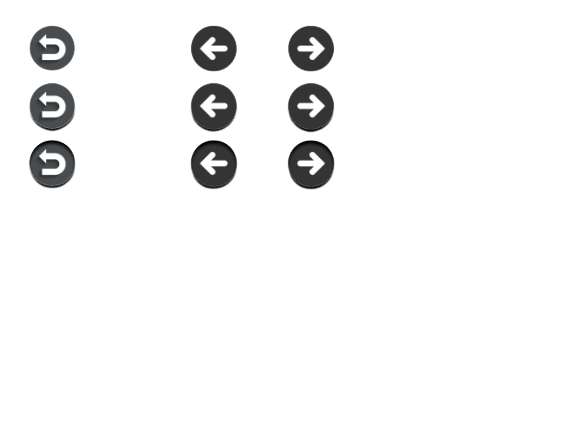
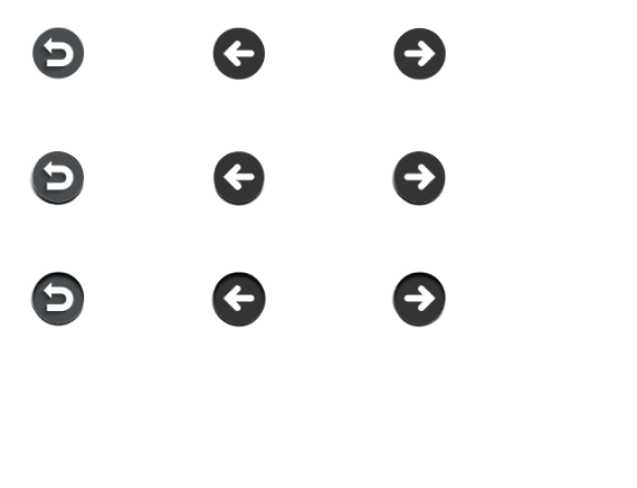
Menu regles fonctionnel

diff --git a/Pages/MenuPrincipal/menuPrincipal.c b/Pages/MenuPrincipal/menuPrincipal.c
@@ -11,7 +11,7 @@ void initDataMenuRegles (Simcity* simcity){
     simcity->pages.menuRegles.tabSpriteMenu[FlECHE_RETOUR].screenY = 7;
 
     simcity->pages.menuRegles.tabSpriteMenu[FLECHE_DROITE].image = &simcity->tabBitmap[BITMAP_FLECHES_MENU_REGLES];
-    simcity->pages.menuRegles.tabSpriteMenu[FLECHE_DROITE].spriteX = 318;
+    simcity->pages.menuRegles.tabSpriteMenu[FLECHE_DROITE].spriteX = 391;
     simcity->pages.menuRegles.tabSpriteMenu[FLECHE_DROITE].spriteY = 25;
     simcity->pages.menuRegles.tabSpriteMenu[FLECHE_DROITE].spriteHauteur = 60;
     simcity->pages.menuRegles.tabSpriteMenu[FLECHE_DROITE].spriteLargeur = 60;
@@ -28,15 +28,15 @@ void initDataMenuRegles (Simcity* simcity){
 
     simcity->pages.menuRegles.tabSpriteMenu[FLECHE_RETOUR_HOVER].image = &simcity->tabBitmap[BITMAP_FLECHES_MENU_REGLES];
     simcity->pages.menuRegles.tabSpriteMenu[FLECHE_RETOUR_HOVER].spriteX = 25;
-    simcity->pages.menuRegles.tabSpriteMenu[FLECHE_RETOUR_HOVER].spriteY = 90;
+    simcity->pages.menuRegles.tabSpriteMenu[FLECHE_RETOUR_HOVER].spriteY = 150;
     simcity->pages.menuRegles.tabSpriteMenu[FLECHE_RETOUR_HOVER].spriteHauteur = 60;
     simcity->pages.menuRegles.tabSpriteMenu[FLECHE_RETOUR_HOVER].spriteLargeur = 60;
     simcity->pages.menuRegles.tabSpriteMenu[FLECHE_RETOUR_HOVER].screenX = 0;
     simcity->pages.menuRegles.tabSpriteMenu[FLECHE_RETOUR_HOVER].screenY = 7;
 
     simcity->pages.menuRegles.tabSpriteMenu[FLECHE_DROITE_HOVER].image = &simcity->tabBitmap[BITMAP_FLECHES_MENU_REGLES];
-    simcity->pages.menuRegles.tabSpriteMenu[FLECHE_DROITE_HOVER].spriteX = 318;
-    simcity->pages.menuRegles.tabSpriteMenu[FLECHE_DROITE_HOVER].spriteY = 90;
+    simcity->pages.menuRegles.tabSpriteMenu[FLECHE_DROITE_HOVER].spriteX = 391;
+    simcity->pages.menuRegles.tabSpriteMenu[FLECHE_DROITE_HOVER].spriteY = 150;
     simcity->pages.menuRegles.tabSpriteMenu[FLECHE_DROITE_HOVER].spriteHauteur = 60;
     simcity->pages.menuRegles.tabSpriteMenu[FLECHE_DROITE_HOVER].spriteLargeur = 60;
     simcity->pages.menuRegles.tabSpriteMenu[FLECHE_DROITE_HOVER].screenX = 865;
@@ -44,7 +44,7 @@ void initDataMenuRegles (Simcity* simcity){
 
     simcity->pages.menuRegles.tabSpriteMenu[FLECHE_GAUCHE_HOVER].image = &simcity->tabBitmap[BITMAP_FLECHES_MENU_REGLES];
     simcity->pages.menuRegles.tabSpriteMenu[FLECHE_GAUCHE_HOVER].spriteX = 208;
-    simcity->pages.menuRegles.tabSpriteMenu[FLECHE_GAUCHE_HOVER].spriteY = 90;
+    simcity->pages.menuRegles.tabSpriteMenu[FLECHE_GAUCHE_HOVER].spriteY = 150;
     simcity->pages.menuRegles.tabSpriteMenu[FLECHE_GAUCHE_HOVER].spriteHauteur = 60;
     simcity->pages.menuRegles.tabSpriteMenu[FLECHE_GAUCHE_HOVER].spriteLargeur = 60;
     simcity->pages.menuRegles.tabSpriteMenu[FLECHE_GAUCHE_HOVER].screenX = 720;
@@ -52,15 +52,15 @@ void initDataMenuRegles (Simcity* simcity){
 
     simcity->pages.menuRegles.tabSpriteMenu[FLECHE_RETOUR_CLIQUE].image = &simcity->tabBitmap[BITMAP_FLECHES_MENU_REGLES];
     simcity->pages.menuRegles.tabSpriteMenu[FLECHE_RETOUR_CLIQUE].spriteX = 25;
-    simcity->pages.menuRegles.tabSpriteMenu[FLECHE_RETOUR_CLIQUE].spriteY = 155;
+    simcity->pages.menuRegles.tabSpriteMenu[FLECHE_RETOUR_CLIQUE].spriteY = 273;
     simcity->pages.menuRegles.tabSpriteMenu[FLECHE_RETOUR_CLIQUE].spriteHauteur = 60;
     simcity->pages.menuRegles.tabSpriteMenu[FLECHE_RETOUR_CLIQUE].spriteLargeur = 60;
     simcity->pages.menuRegles.tabSpriteMenu[FLECHE_RETOUR_CLIQUE].screenX = 0;
     simcity->pages.menuRegles.tabSpriteMenu[FLECHE_RETOUR_CLIQUE].screenY = 7;
 
     simcity->pages.menuRegles.tabSpriteMenu[FLECHE_DROITE_CLIQUE].image = &simcity->tabBitmap[BITMAP_FLECHES_MENU_REGLES];
-    simcity->pages.menuRegles.tabSpriteMenu[FLECHE_DROITE_CLIQUE].spriteX = 318;
-    simcity->pages.menuRegles.tabSpriteMenu[FLECHE_DROITE_CLIQUE].spriteY = 155;
+    simcity->pages.menuRegles.tabSpriteMenu[FLECHE_DROITE_CLIQUE].spriteX = 391;
+    simcity->pages.menuRegles.tabSpriteMenu[FLECHE_DROITE_CLIQUE].spriteY = 273;
     simcity->pages.menuRegles.tabSpriteMenu[FLECHE_DROITE_CLIQUE].spriteHauteur = 60;
     simcity->pages.menuRegles.tabSpriteMenu[FLECHE_DROITE_CLIQUE].spriteLargeur = 60;
     simcity->pages.menuRegles.tabSpriteMenu[FLECHE_DROITE_CLIQUE].screenX = 865;
@@ -68,7 +68,7 @@ void initDataMenuRegles (Simcity* simcity){
 
     simcity->pages.menuRegles.tabSpriteMenu[FLECHE_GAUCHE_CLIQUE].image = &simcity->tabBitmap[BITMAP_FLECHES_MENU_REGLES];
     simcity->pages.menuRegles.tabSpriteMenu[FLECHE_GAUCHE_CLIQUE].spriteX = 208;
-    simcity->pages.menuRegles.tabSpriteMenu[FLECHE_GAUCHE_CLIQUE].spriteY = 155;
+    simcity->pages.menuRegles.tabSpriteMenu[FLECHE_GAUCHE_CLIQUE].spriteY = 273;
     simcity->pages.menuRegles.tabSpriteMenu[FLECHE_GAUCHE_CLIQUE].spriteHauteur = 60;
     simcity->pages.menuRegles.tabSpriteMenu[FLECHE_GAUCHE_CLIQUE].spriteLargeur = 60;
     simcity->pages.menuRegles.tabSpriteMenu[FLECHE_GAUCHE_CLIQUE].screenX = 720;
@@ -326,6 +326,7 @@ void detectionCliqueBoutonAide (Simcity* simcity){// A l'image du hover, un effe
     if(simcity->allegro.event.mouse.button == 1 && (float)simcity->allegro.event.mouse.x >= simcity->pages.menuPrincipal.tabSpriteMenu[AIDE].screenX && (float)simcity->allegro.event.mouse.x <= simcity->pages.menuPrincipal.tabSpriteMenu[AIDE].screenX + simcity->pages.menuPrincipal.tabSpriteMenu[AIDE].spriteLargeur && (float)simcity->allegro.event.mouse.y >= simcity->pages.menuPrincipal.tabSpriteMenu[AIDE].screenY && (float)simcity->allegro.event.mouse.y <= simcity->pages.menuPrincipal.tabSpriteMenu[AIDE].screenY + simcity->pages.menuPrincipal.tabSpriteMenu[AIDE].spriteHauteur){
         simcity->pages.menuPrincipal.aideClique = true;// Si on clique dans une zone défini, alors un bool passe a 1 et on le récupère dans la fonction d'affichage correspondant
         simcity->pages.menuRegles.menuRegles = false;
+        simcity->pages.menuRegles.menuReglesPage1 = true;
     }else { simcity->pages.menuPrincipal.aideClique = false;}// Sinon, on ne fais rien
 }
 
@@ -335,8 +336,12 @@ void detectionCliqueMenuRegles (Simcity* simcity){
         simcity->pages.menuRegles.menuRegles = true;
     }else if(simcity->allegro.event.mouse.button == 1 && (float)simcity->allegro.event.mouse.x >= simcity->pages.menuRegles.tabSpriteMenu[FLECHE_GAUCHE].screenX && (float)simcity->allegro.event.mouse.x <= simcity->pages.menuRegles.tabSpriteMenu[FLECHE_GAUCHE].screenX + simcity->pages.menuRegles.tabSpriteMenu[FLECHE_GAUCHE].spriteLargeur && (float)simcity->allegro.event.mouse.y >= simcity->pages.menuRegles.tabSpriteMenu[FLECHE_GAUCHE].screenY && (float)simcity->allegro.event.mouse.y <= simcity->pages.menuRegles.tabSpriteMenu[FLECHE_GAUCHE].screenY + simcity->pages.menuRegles.tabSpriteMenu[FLECHE_GAUCHE].spriteHauteur) {
         simcity->pages.menuRegles.flecheGaucheClique = 1;
+        simcity->pages.menuRegles.menuReglesPage2 = false;
+        simcity->pages.menuRegles.menuReglesPage1 = true;
+
      }else if(simcity->allegro.event.mouse.button == 1 && (float)simcity->allegro.event.mouse.x >= simcity->pages.menuRegles.tabSpriteMenu[FLECHE_DROITE].screenX && (float)simcity->allegro.event.mouse.x <= simcity->pages.menuRegles.tabSpriteMenu[FLECHE_DROITE].screenX + simcity->pages.menuRegles.tabSpriteMenu[FLECHE_DROITE].spriteLargeur && (float)simcity->allegro.event.mouse.y >= simcity->pages.menuRegles.tabSpriteMenu[FLECHE_DROITE].screenY && (float)simcity->allegro.event.mouse.y <= simcity->pages.menuRegles.tabSpriteMenu[FLECHE_DROITE].screenY + simcity->pages.menuRegles.tabSpriteMenu[FLECHE_DROITE].spriteHauteur) {
         simcity->pages.menuRegles.flecheDroiteClique = 1;
+        simcity->pages.menuRegles.menuReglesPage2 = true;
 
     }else simcity->pages.menuRegles.flecheDroiteClique = false;
     simcity->pages.menuRegles.flecheGaucheClique = false;
@@ -378,30 +383,169 @@ void detectionClique(Simcity * simcity){
     }
 }
 
-void afficherMenuAide (Simcity* simcity){
-    if(!simcity->pages.menuRegles.menuRegles){
-        al_clear_to_color(al_map_rgb(0,0,0));
-        al_draw_bitmap(simcity->tabBitmap[BITMAP_REGLE_1],0,0,0);
-        al_draw_bitmap_region(*(simcity->pages.menuRegles.tabSpriteMenu[FlECHE_RETOUR].image), simcity->pages.menuRegles.tabSpriteMenu[FlECHE_RETOUR].spriteX, simcity->pages.menuRegles.tabSpriteMenu[FlECHE_RETOUR].spriteY, simcity->pages.menuRegles.tabSpriteMenu[FlECHE_RETOUR].spriteLargeur, simcity->pages.menuRegles.tabSpriteMenu[FlECHE_RETOUR].spriteHauteur, simcity->pages.menuRegles.tabSpriteMenu[FlECHE_RETOUR].screenX, simcity->pages.menuRegles.tabSpriteMenu[FlECHE_RETOUR].screenY,0);
-        al_draw_bitmap_region(*(simcity->pages.menuRegles.tabSpriteMenu[FLECHE_DROITE].image), simcity->pages.menuRegles.tabSpriteMenu[FLECHE_DROITE].spriteX, simcity->pages.menuRegles.tabSpriteMenu[FLECHE_DROITE].spriteY, simcity->pages.menuRegles.tabSpriteMenu[FLECHE_DROITE].spriteLargeur, simcity->pages.menuRegles.tabSpriteMenu[FLECHE_DROITE].spriteHauteur, simcity->pages.menuRegles.tabSpriteMenu[FLECHE_DROITE].screenX, simcity->pages.menuRegles.tabSpriteMenu[FLECHE_DROITE].screenY,0);
-        al_draw_bitmap_region(*(simcity->pages.menuRegles.tabSpriteMenu[FLECHE_GAUCHE].image), simcity->pages.menuRegles.tabSpriteMenu[FLECHE_GAUCHE].spriteX, simcity->pages.menuRegles.tabSpriteMenu[FLECHE_GAUCHE].spriteY, simcity->pages.menuRegles.tabSpriteMenu[FLECHE_GAUCHE].spriteLargeur, simcity->pages.menuRegles.tabSpriteMenu[FLECHE_GAUCHE].spriteHauteur, simcity->pages.menuRegles.tabSpriteMenu[FLECHE_GAUCHE].screenX, simcity->pages.menuRegles.tabSpriteMenu[FLECHE_GAUCHE].screenY,0);
-        if(simcity->pages.menuRegles.flecheRetourHover) {
-            al_draw_bitmap_region(*(simcity->pages.menuRegles.tabSpriteMenu[FLECHE_RETOUR_HOVER].image), simcity->pages.menuRegles.tabSpriteMenu[FLECHE_RETOUR_HOVER].spriteX, simcity->pages.menuRegles.tabSpriteMenu[FLECHE_RETOUR_HOVER].spriteY, simcity->pages.menuRegles.tabSpriteMenu[FLECHE_RETOUR_HOVER].spriteLargeur, simcity->pages.menuRegles.tabSpriteMenu[FLECHE_RETOUR_HOVER].spriteHauteur, simcity->pages.menuRegles.tabSpriteMenu[FLECHE_RETOUR_HOVER].screenX, simcity->pages.menuRegles.tabSpriteMenu[FLECHE_RETOUR_HOVER].screenY,0);
-        }if(simcity->pages.menuRegles.flecheDroiteHover){
-            al_draw_bitmap_region(*(simcity->pages.menuRegles.tabSpriteMenu[FLECHE_DROITE_HOVER].image), simcity->pages.menuRegles.tabSpriteMenu[FLECHE_DROITE_HOVER].spriteX, simcity->pages.menuRegles.tabSpriteMenu[FLECHE_DROITE_HOVER].spriteY, simcity->pages.menuRegles.tabSpriteMenu[FLECHE_DROITE_HOVER].spriteLargeur, simcity->pages.menuRegles.tabSpriteMenu[FLECHE_DROITE_HOVER].spriteHauteur, simcity->pages.menuRegles.tabSpriteMenu[FLECHE_DROITE_HOVER].screenX, simcity->pages.menuRegles.tabSpriteMenu[FLECHE_DROITE_HOVER].screenY,0);
-        }if(simcity->pages.menuRegles.flecheGaucheHover){
-            al_draw_bitmap_region(*(simcity->pages.menuRegles.tabSpriteMenu[FLECHE_GAUCHE_HOVER].image), simcity->pages.menuRegles.tabSpriteMenu[FLECHE_GAUCHE_HOVER].spriteX, simcity->pages.menuRegles.tabSpriteMenu[FLECHE_GAUCHE_HOVER].spriteY, simcity->pages.menuRegles.tabSpriteMenu[FLECHE_GAUCHE_HOVER].spriteLargeur, simcity->pages.menuRegles.tabSpriteMenu[FLECHE_GAUCHE_HOVER].spriteHauteur, simcity->pages.menuRegles.tabSpriteMenu[FLECHE_GAUCHE_HOVER].screenX, simcity->pages.menuRegles.tabSpriteMenu[FLECHE_GAUCHE_HOVER].screenY,0);
-        }if(simcity->pages.menuRegles.flecheGaucheClique){
-            al_draw_bitmap_region(*(simcity->pages.menuRegles.tabSpriteMenu[FLECHE_GAUCHE_CLIQUE].image), simcity->pages.menuRegles.tabSpriteMenu[FLECHE_GAUCHE_CLIQUE].spriteX, simcity->pages.menuRegles.tabSpriteMenu[FLECHE_GAUCHE_CLIQUE].spriteY, simcity->pages.menuRegles.tabSpriteMenu[FLECHE_GAUCHE_CLIQUE].spriteLargeur, simcity->pages.menuRegles.tabSpriteMenu[FLECHE_GAUCHE_CLIQUE].spriteHauteur, simcity->pages.menuRegles.tabSpriteMenu[FLECHE_GAUCHE_CLIQUE].screenX, simcity->pages.menuRegles.tabSpriteMenu[FLECHE_GAUCHE_CLIQUE].screenY,0);
-        }if(simcity->pages.menuRegles.flecheRetourClique){
-            al_draw_bitmap_region(*(simcity->pages.menuRegles.tabSpriteMenu[FLECHE_RETOUR_CLIQUE].image), simcity->pages.menuRegles.tabSpriteMenu[FLECHE_RETOUR_CLIQUE].spriteX, simcity->pages.menuRegles.tabSpriteMenu[FLECHE_RETOUR_CLIQUE].spriteY, simcity->pages.menuRegles.tabSpriteMenu[FLECHE_RETOUR_CLIQUE].spriteLargeur, simcity->pages.menuRegles.tabSpriteMenu[FLECHE_RETOUR_CLIQUE].spriteHauteur, simcity->pages.menuRegles.tabSpriteMenu[FLECHE_RETOUR_CLIQUE].screenX, simcity->pages.menuRegles.tabSpriteMenu[FLECHE_RETOUR_CLIQUE].screenY,0);
-        }if(simcity->pages.menuRegles.flecheDroiteClique){
-            al_draw_bitmap_region(*(simcity->pages.menuRegles.tabSpriteMenu[FLECHE_DROITE_CLIQUE].image), simcity->pages.menuRegles.tabSpriteMenu[FLECHE_DROITE_CLIQUE].spriteX, simcity->pages.menuRegles.tabSpriteMenu[FLECHE_DROITE_CLIQUE].spriteY, simcity->pages.menuRegles.tabSpriteMenu[FLECHE_DROITE_CLIQUE].spriteLargeur, simcity->pages.menuRegles.tabSpriteMenu[FLECHE_DROITE_CLIQUE].spriteHauteur, simcity->pages.menuRegles.tabSpriteMenu[FLECHE_DROITE_CLIQUE].screenX, simcity->pages.menuRegles.tabSpriteMenu[FLECHE_DROITE_CLIQUE].screenY,0);
+void afficherMenuAide (Simcity* simcity) {
+    if (!simcity->pages.menuRegles.menuRegles) {
+        al_clear_to_color(al_map_rgb(0, 0, 0));
+        if (simcity->pages.menuRegles.menuReglesPage1 == true) {
+            al_draw_bitmap(simcity->tabBitmap[BITMAP_REGLE_1], 0, 0, 0);
+            al_draw_bitmap_region(*(simcity->pages.menuRegles.tabSpriteMenu[FlECHE_RETOUR].image),
+                                  simcity->pages.menuRegles.tabSpriteMenu[FlECHE_RETOUR].spriteX,
+                                  simcity->pages.menuRegles.tabSpriteMenu[FlECHE_RETOUR].spriteY,
+                                  simcity->pages.menuRegles.tabSpriteMenu[FlECHE_RETOUR].spriteLargeur,
+                                  simcity->pages.menuRegles.tabSpriteMenu[FlECHE_RETOUR].spriteHauteur,
+                                  simcity->pages.menuRegles.tabSpriteMenu[FlECHE_RETOUR].screenX,
+                                  simcity->pages.menuRegles.tabSpriteMenu[FlECHE_RETOUR].screenY, 0);
+            al_draw_bitmap_region(*(simcity->pages.menuRegles.tabSpriteMenu[FLECHE_DROITE].image),
+                                  simcity->pages.menuRegles.tabSpriteMenu[FLECHE_DROITE].spriteX,
+                                  simcity->pages.menuRegles.tabSpriteMenu[FLECHE_DROITE].spriteY,
+                                  simcity->pages.menuRegles.tabSpriteMenu[FLECHE_DROITE].spriteLargeur,
+                                  simcity->pages.menuRegles.tabSpriteMenu[FLECHE_DROITE].spriteHauteur,
+                                  simcity->pages.menuRegles.tabSpriteMenu[FLECHE_DROITE].screenX,
+                                  simcity->pages.menuRegles.tabSpriteMenu[FLECHE_DROITE].screenY, 0);
+            al_draw_bitmap_region(*(simcity->pages.menuRegles.tabSpriteMenu[FLECHE_GAUCHE].image),
+                                  simcity->pages.menuRegles.tabSpriteMenu[FLECHE_GAUCHE].spriteX,
+                                  simcity->pages.menuRegles.tabSpriteMenu[FLECHE_GAUCHE].spriteY,
+                                  simcity->pages.menuRegles.tabSpriteMenu[FLECHE_GAUCHE].spriteLargeur,
+                                  simcity->pages.menuRegles.tabSpriteMenu[FLECHE_GAUCHE].spriteHauteur,
+                                  simcity->pages.menuRegles.tabSpriteMenu[FLECHE_GAUCHE].screenX,
+                                  simcity->pages.menuRegles.tabSpriteMenu[FLECHE_GAUCHE].screenY, 0);
+            if (simcity->pages.menuRegles.flecheRetourHover) {
+                al_draw_bitmap_region(*(simcity->pages.menuRegles.tabSpriteMenu[FLECHE_RETOUR_HOVER].image),
+                                      simcity->pages.menuRegles.tabSpriteMenu[FLECHE_RETOUR_HOVER].spriteX,
+                                      simcity->pages.menuRegles.tabSpriteMenu[FLECHE_RETOUR_HOVER].spriteY,
+                                      simcity->pages.menuRegles.tabSpriteMenu[FLECHE_RETOUR_HOVER].spriteLargeur,
+                                      simcity->pages.menuRegles.tabSpriteMenu[FLECHE_RETOUR_HOVER].spriteHauteur,
+                                      simcity->pages.menuRegles.tabSpriteMenu[FLECHE_RETOUR_HOVER].screenX,
+                                      simcity->pages.menuRegles.tabSpriteMenu[FLECHE_RETOUR_HOVER].screenY, 0);
+            }
+            if (simcity->pages.menuRegles.flecheDroiteHover) {
+                al_draw_bitmap_region(*(simcity->pages.menuRegles.tabSpriteMenu[FLECHE_DROITE_HOVER].image),
+                                      simcity->pages.menuRegles.tabSpriteMenu[FLECHE_DROITE_HOVER].spriteX,
+                                      simcity->pages.menuRegles.tabSpriteMenu[FLECHE_DROITE_HOVER].spriteY,
+                                      simcity->pages.menuRegles.tabSpriteMenu[FLECHE_DROITE_HOVER].spriteLargeur,
+                                      simcity->pages.menuRegles.tabSpriteMenu[FLECHE_DROITE_HOVER].spriteHauteur,
+                                      simcity->pages.menuRegles.tabSpriteMenu[FLECHE_DROITE_HOVER].screenX,
+                                      simcity->pages.menuRegles.tabSpriteMenu[FLECHE_DROITE_HOVER].screenY, 0);
+            }
+            if (simcity->pages.menuRegles.flecheGaucheHover) {
+                al_draw_bitmap_region(*(simcity->pages.menuRegles.tabSpriteMenu[FLECHE_GAUCHE_HOVER].image),
+                                      simcity->pages.menuRegles.tabSpriteMenu[FLECHE_GAUCHE_HOVER].spriteX,
+                                      simcity->pages.menuRegles.tabSpriteMenu[FLECHE_GAUCHE_HOVER].spriteY,
+                                      simcity->pages.menuRegles.tabSpriteMenu[FLECHE_GAUCHE_HOVER].spriteLargeur,
+                                      simcity->pages.menuRegles.tabSpriteMenu[FLECHE_GAUCHE_HOVER].spriteHauteur,
+                                      simcity->pages.menuRegles.tabSpriteMenu[FLECHE_GAUCHE_HOVER].screenX,
+                                      simcity->pages.menuRegles.tabSpriteMenu[FLECHE_GAUCHE_HOVER].screenY, 0);
+            }
+            if (simcity->pages.menuRegles.flecheGaucheClique) {
+                al_draw_bitmap_region(*(simcity->pages.menuRegles.tabSpriteMenu[FLECHE_GAUCHE_CLIQUE].image),
+                                      simcity->pages.menuRegles.tabSpriteMenu[FLECHE_GAUCHE_CLIQUE].spriteX,
+                                      simcity->pages.menuRegles.tabSpriteMenu[FLECHE_GAUCHE_CLIQUE].spriteY,
+                                      simcity->pages.menuRegles.tabSpriteMenu[FLECHE_GAUCHE_CLIQUE].spriteLargeur,
+                                      simcity->pages.menuRegles.tabSpriteMenu[FLECHE_GAUCHE_CLIQUE].spriteHauteur,
+                                      simcity->pages.menuRegles.tabSpriteMenu[FLECHE_GAUCHE_CLIQUE].screenX,
+                                      simcity->pages.menuRegles.tabSpriteMenu[FLECHE_GAUCHE_CLIQUE].screenY, 0);
+            }
+            if (simcity->pages.menuRegles.flecheRetourClique) {
+                al_draw_bitmap_region(*(simcity->pages.menuRegles.tabSpriteMenu[FLECHE_RETOUR_CLIQUE].image),
+                                      simcity->pages.menuRegles.tabSpriteMenu[FLECHE_RETOUR_CLIQUE].spriteX,
+                                      simcity->pages.menuRegles.tabSpriteMenu[FLECHE_RETOUR_CLIQUE].spriteY,
+                                      simcity->pages.menuRegles.tabSpriteMenu[FLECHE_RETOUR_CLIQUE].spriteLargeur,
+                                      simcity->pages.menuRegles.tabSpriteMenu[FLECHE_RETOUR_CLIQUE].spriteHauteur,
+                                      simcity->pages.menuRegles.tabSpriteMenu[FLECHE_RETOUR_CLIQUE].screenX,
+                                      simcity->pages.menuRegles.tabSpriteMenu[FLECHE_RETOUR_CLIQUE].screenY, 0);
+            }
+            if (simcity->pages.menuRegles.flecheDroiteClique) {
+                al_draw_bitmap_region(*(simcity->pages.menuRegles.tabSpriteMenu[FLECHE_DROITE_CLIQUE].image),
+                                      simcity->pages.menuRegles.tabSpriteMenu[FLECHE_DROITE_CLIQUE].spriteX,
+                                      simcity->pages.menuRegles.tabSpriteMenu[FLECHE_DROITE_CLIQUE].spriteY,
+                                      simcity->pages.menuRegles.tabSpriteMenu[FLECHE_DROITE_CLIQUE].spriteLargeur,
+                                      simcity->pages.menuRegles.tabSpriteMenu[FLECHE_DROITE_CLIQUE].spriteHauteur,
+                                      simcity->pages.menuRegles.tabSpriteMenu[FLECHE_DROITE_CLIQUE].screenX,
+                                      simcity->pages.menuRegles.tabSpriteMenu[FLECHE_DROITE_CLIQUE].screenY, 0);
 
+            }
+
+        }if (simcity->pages.menuRegles.menuReglesPage2 == true){
+            al_draw_bitmap(simcity->tabBitmap[BITMAP_REGLE_2], 0, 0, 0);
+            al_draw_bitmap_region(*(simcity->pages.menuRegles.tabSpriteMenu[FlECHE_RETOUR].image),
+                                  simcity->pages.menuRegles.tabSpriteMenu[FlECHE_RETOUR].spriteX,
+                                  simcity->pages.menuRegles.tabSpriteMenu[FlECHE_RETOUR].spriteY,
+                                  simcity->pages.menuRegles.tabSpriteMenu[FlECHE_RETOUR].spriteLargeur,
+                                  simcity->pages.menuRegles.tabSpriteMenu[FlECHE_RETOUR].spriteHauteur,
+                                  simcity->pages.menuRegles.tabSpriteMenu[FlECHE_RETOUR].screenX,
+                                  simcity->pages.menuRegles.tabSpriteMenu[FlECHE_RETOUR].screenY, 0);
+            al_draw_bitmap_region(*(simcity->pages.menuRegles.tabSpriteMenu[FLECHE_DROITE].image),
+                                  simcity->pages.menuRegles.tabSpriteMenu[FLECHE_DROITE].spriteX,
+                                  simcity->pages.menuRegles.tabSpriteMenu[FLECHE_DROITE].spriteY,
+                                  simcity->pages.menuRegles.tabSpriteMenu[FLECHE_DROITE].spriteLargeur,
+                                  simcity->pages.menuRegles.tabSpriteMenu[FLECHE_DROITE].spriteHauteur,
+                                  simcity->pages.menuRegles.tabSpriteMenu[FLECHE_DROITE].screenX,
+                                  simcity->pages.menuRegles.tabSpriteMenu[FLECHE_DROITE].screenY, 0);
+            al_draw_bitmap_region(*(simcity->pages.menuRegles.tabSpriteMenu[FLECHE_GAUCHE].image),
+                                  simcity->pages.menuRegles.tabSpriteMenu[FLECHE_GAUCHE].spriteX,
+                                  simcity->pages.menuRegles.tabSpriteMenu[FLECHE_GAUCHE].spriteY,
+                                  simcity->pages.menuRegles.tabSpriteMenu[FLECHE_GAUCHE].spriteLargeur,
+                                  simcity->pages.menuRegles.tabSpriteMenu[FLECHE_GAUCHE].spriteHauteur,
+                                  simcity->pages.menuRegles.tabSpriteMenu[FLECHE_GAUCHE].screenX,
+                                  simcity->pages.menuRegles.tabSpriteMenu[FLECHE_GAUCHE].screenY, 0);
+            if (simcity->pages.menuRegles.flecheRetourHover) {
+                al_draw_bitmap_region(*(simcity->pages.menuRegles.tabSpriteMenu[FLECHE_RETOUR_HOVER].image),
+                                      simcity->pages.menuRegles.tabSpriteMenu[FLECHE_RETOUR_HOVER].spriteX,
+                                      simcity->pages.menuRegles.tabSpriteMenu[FLECHE_RETOUR_HOVER].spriteY,
+                                      simcity->pages.menuRegles.tabSpriteMenu[FLECHE_RETOUR_HOVER].spriteLargeur,
+                                      simcity->pages.menuRegles.tabSpriteMenu[FLECHE_RETOUR_HOVER].spriteHauteur,
+                                      simcity->pages.menuRegles.tabSpriteMenu[FLECHE_RETOUR_HOVER].screenX,
+                                      simcity->pages.menuRegles.tabSpriteMenu[FLECHE_RETOUR_HOVER].screenY, 0);
+            }
+            if (simcity->pages.menuRegles.flecheDroiteHover) {
+                al_draw_bitmap_region(*(simcity->pages.menuRegles.tabSpriteMenu[FLECHE_DROITE_HOVER].image),
+                                      simcity->pages.menuRegles.tabSpriteMenu[FLECHE_DROITE_HOVER].spriteX,
+                                      simcity->pages.menuRegles.tabSpriteMenu[FLECHE_DROITE_HOVER].spriteY,
+                                      simcity->pages.menuRegles.tabSpriteMenu[FLECHE_DROITE_HOVER].spriteLargeur,
+                                      simcity->pages.menuRegles.tabSpriteMenu[FLECHE_DROITE_HOVER].spriteHauteur,
+                                      simcity->pages.menuRegles.tabSpriteMenu[FLECHE_DROITE_HOVER].screenX,
+                                      simcity->pages.menuRegles.tabSpriteMenu[FLECHE_DROITE_HOVER].screenY, 0);
+            }
+            if (simcity->pages.menuRegles.flecheGaucheHover) {
+                al_draw_bitmap_region(*(simcity->pages.menuRegles.tabSpriteMenu[FLECHE_GAUCHE_HOVER].image),
+                                      simcity->pages.menuRegles.tabSpriteMenu[FLECHE_GAUCHE_HOVER].spriteX,
+                                      simcity->pages.menuRegles.tabSpriteMenu[FLECHE_GAUCHE_HOVER].spriteY,
+                                      simcity->pages.menuRegles.tabSpriteMenu[FLECHE_GAUCHE_HOVER].spriteLargeur,
+                                      simcity->pages.menuRegles.tabSpriteMenu[FLECHE_GAUCHE_HOVER].spriteHauteur,
+                                      simcity->pages.menuRegles.tabSpriteMenu[FLECHE_GAUCHE_HOVER].screenX,
+                                      simcity->pages.menuRegles.tabSpriteMenu[FLECHE_GAUCHE_HOVER].screenY, 0);
+            }
+            if (simcity->pages.menuRegles.flecheGaucheClique) {
+                al_draw_bitmap_region(*(simcity->pages.menuRegles.tabSpriteMenu[FLECHE_GAUCHE_CLIQUE].image),
+                                      simcity->pages.menuRegles.tabSpriteMenu[FLECHE_GAUCHE_CLIQUE].spriteX,
+                                      simcity->pages.menuRegles.tabSpriteMenu[FLECHE_GAUCHE_CLIQUE].spriteY,
+                                      simcity->pages.menuRegles.tabSpriteMenu[FLECHE_GAUCHE_CLIQUE].spriteLargeur,
+                                      simcity->pages.menuRegles.tabSpriteMenu[FLECHE_GAUCHE_CLIQUE].spriteHauteur,
+                                      simcity->pages.menuRegles.tabSpriteMenu[FLECHE_GAUCHE_CLIQUE].screenX,
+                                      simcity->pages.menuRegles.tabSpriteMenu[FLECHE_GAUCHE_CLIQUE].screenY, 0);
+            }
+            if (simcity->pages.menuRegles.flecheRetourClique) {
+                al_draw_bitmap_region(*(simcity->pages.menuRegles.tabSpriteMenu[FLECHE_RETOUR_CLIQUE].image),
+                                      simcity->pages.menuRegles.tabSpriteMenu[FLECHE_RETOUR_CLIQUE].spriteX,
+                                      simcity->pages.menuRegles.tabSpriteMenu[FLECHE_RETOUR_CLIQUE].spriteY,
+                                      simcity->pages.menuRegles.tabSpriteMenu[FLECHE_RETOUR_CLIQUE].spriteLargeur,
+                                      simcity->pages.menuRegles.tabSpriteMenu[FLECHE_RETOUR_CLIQUE].spriteHauteur,
+                                      simcity->pages.menuRegles.tabSpriteMenu[FLECHE_RETOUR_CLIQUE].screenX,
+                                      simcity->pages.menuRegles.tabSpriteMenu[FLECHE_RETOUR_CLIQUE].screenY, 0);
+            }
+            if (simcity->pages.menuRegles.flecheDroiteClique) {
+                al_draw_bitmap_region(*(simcity->pages.menuRegles.tabSpriteMenu[FLECHE_DROITE_CLIQUE].image),
+                                      simcity->pages.menuRegles.tabSpriteMenu[FLECHE_DROITE_CLIQUE].spriteX,
+                                      simcity->pages.menuRegles.tabSpriteMenu[FLECHE_DROITE_CLIQUE].spriteY,
+                                      simcity->pages.menuRegles.tabSpriteMenu[FLECHE_DROITE_CLIQUE].spriteLargeur,
+                                      simcity->pages.menuRegles.tabSpriteMenu[FLECHE_DROITE_CLIQUE].spriteHauteur,
+                                      simcity->pages.menuRegles.tabSpriteMenu[FLECHE_DROITE_CLIQUE].screenX,
+                                      simcity->pages.menuRegles.tabSpriteMenu[FLECHE_DROITE_CLIQUE].screenY, 0);
+
+            }
         }
     }
 }
-
 
 void afficherMenuComCap (Simcity* simcity){ // Cette fonction recupère les booleéns et affiche les hover/cliques en conséquences
     al_draw_bitmap(*(simcity->pages.menuCapitalisteCommuniste.tabSpriteMenu[FOND2].image), 0,0,0); // On commence par dessiner le menu

diff --git a/Structures/structures.h b/Structures/structures.h
@@ -124,6 +124,8 @@ typedef struct PageMenuCapitalisteCommuniste {
 typedef struct  PageMenuRegles {
     Bitmap tabSpriteMenu[NB_SPRITE_MENU_REGLES];
     bool menuRegles;
+    bool menuReglesPage1;
+    bool menuReglesPage2;
     bool flecheRetourHover;
     bool flecheRetourClique;
     bool flecheGaucheHover;
